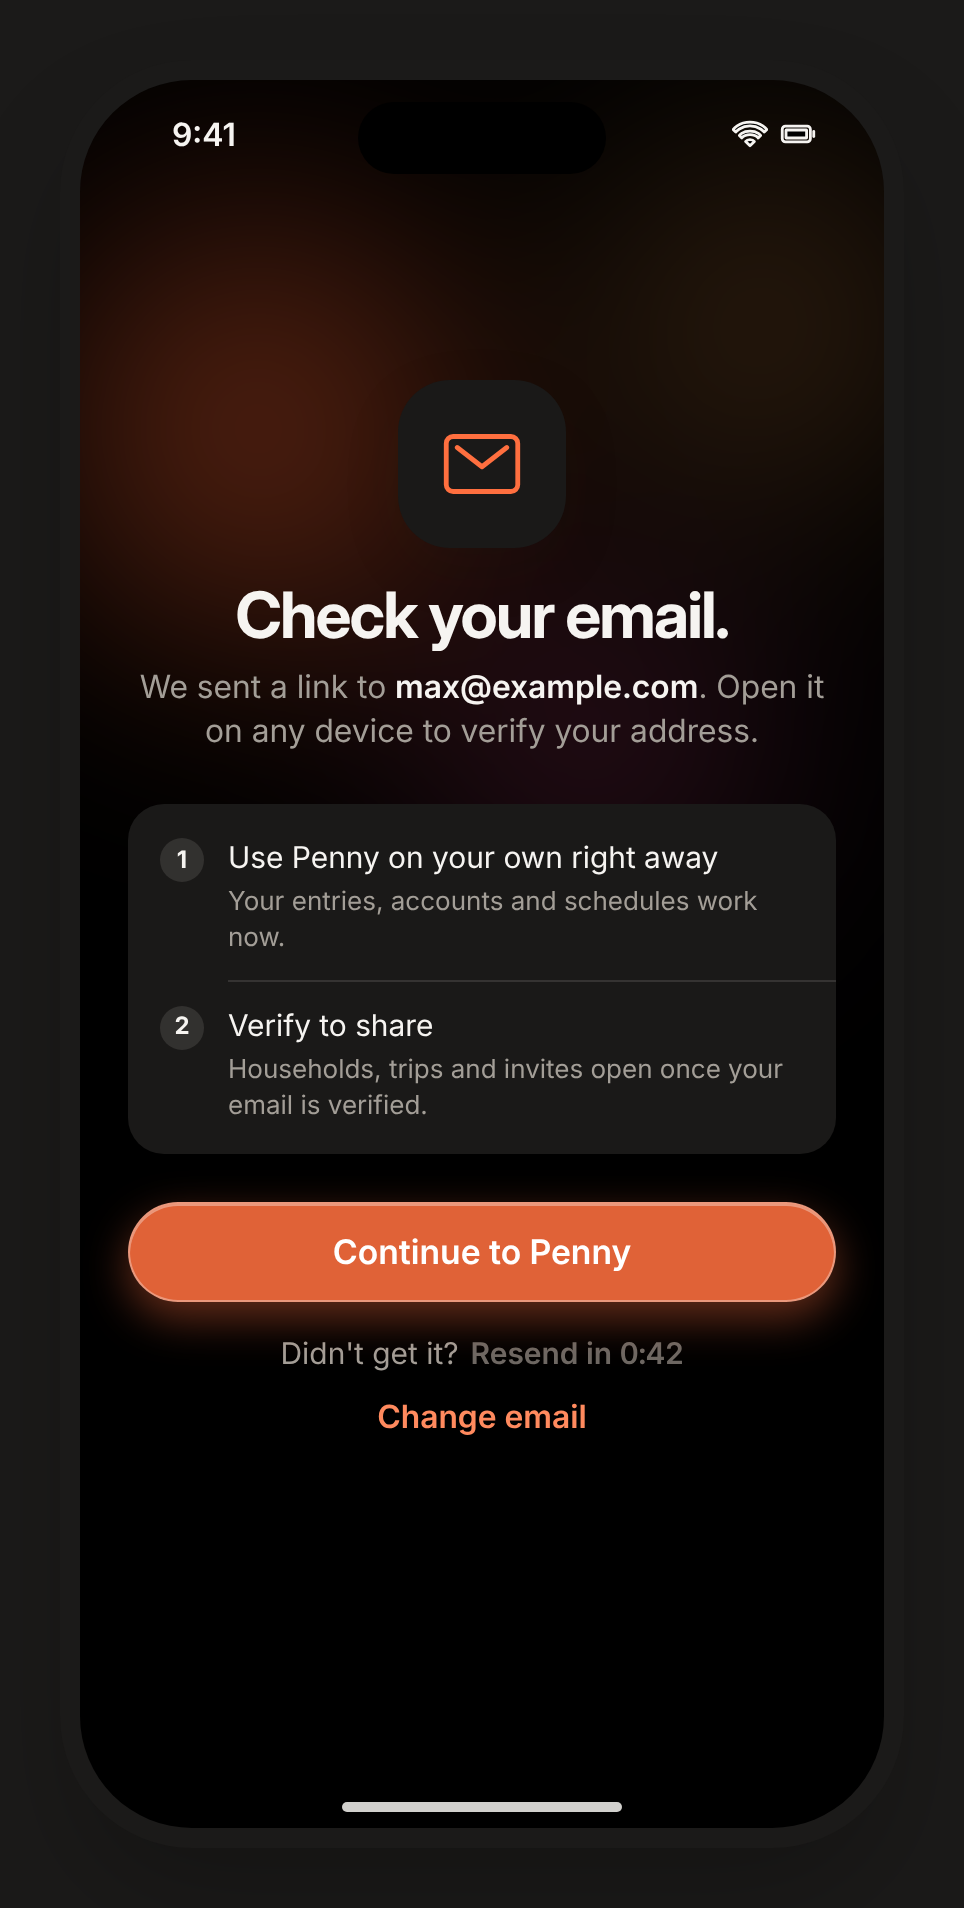
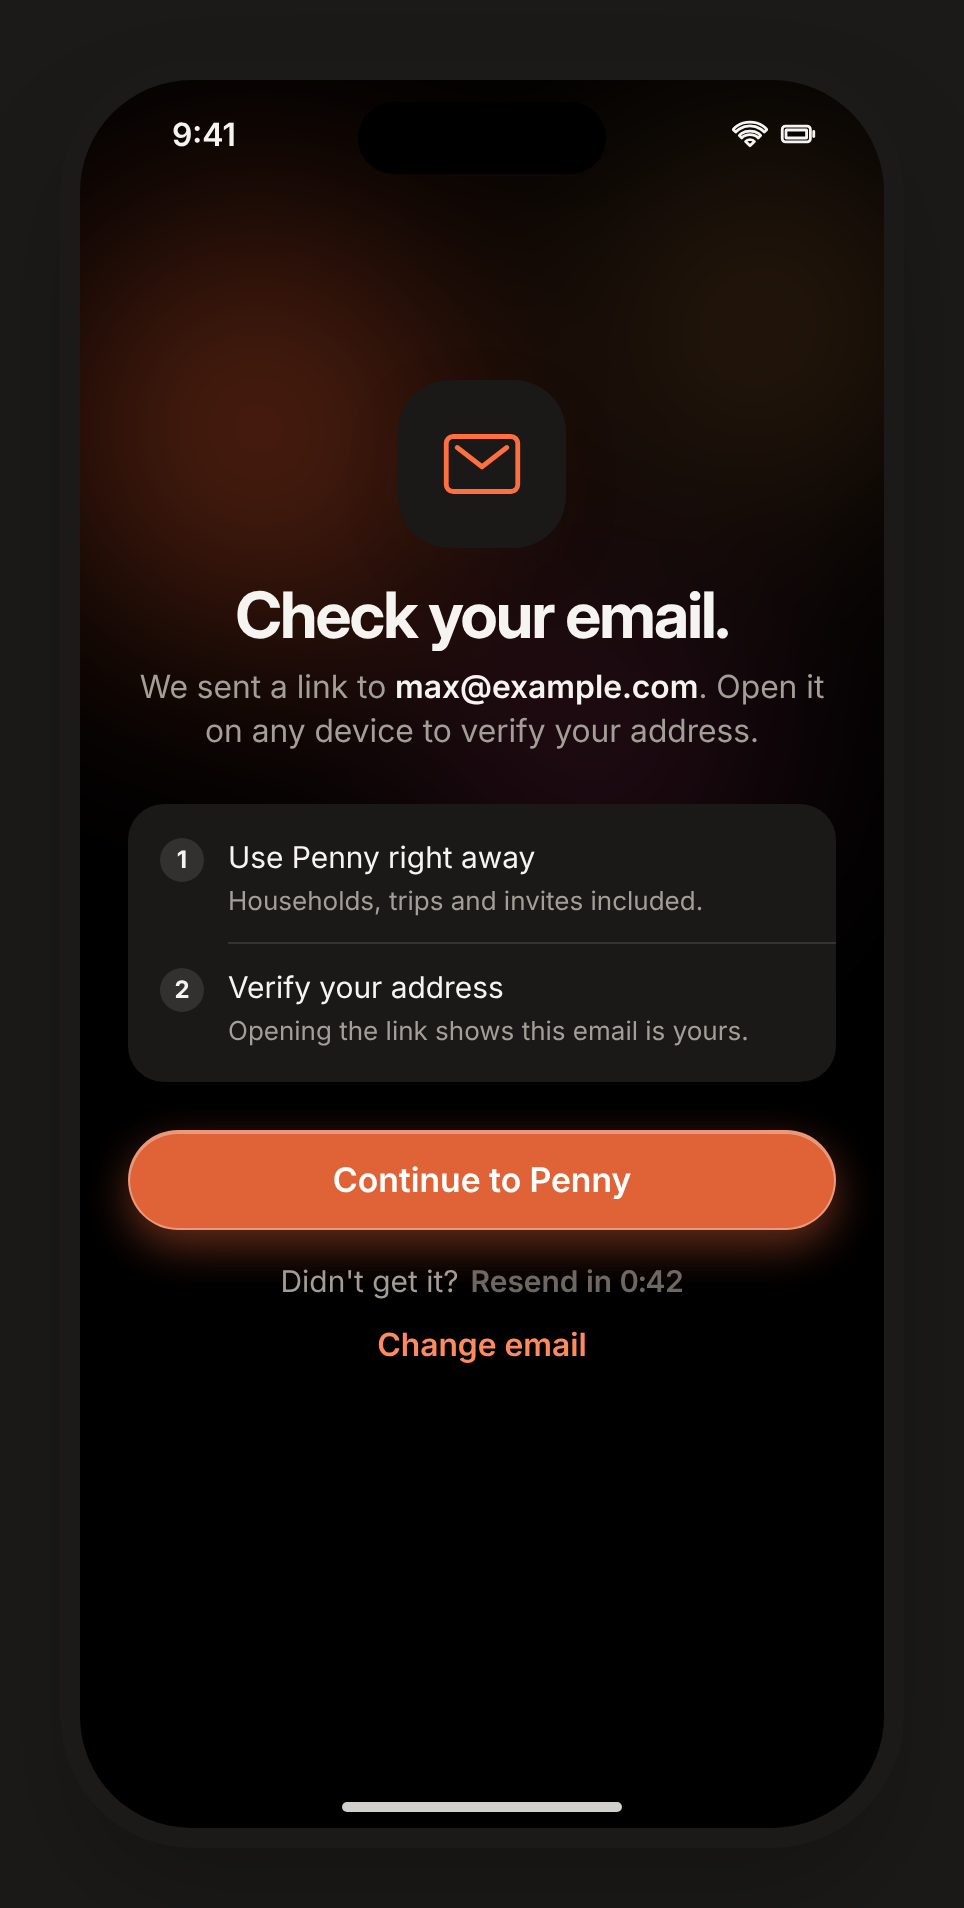
docs(design): verification cards say nothing waits for a verified email
The owner decided no feature is gated on email verification. The four
verification cards now say verification proves the address, with
households, trips and invites available either way. Baselines re-rendered
in the pinned Playwright image, hashes refreshed, the web re-captured and
its two follow-up deviations removed.

Changed region(s): [[0.1245, 0.4329, 0.9025, 0.7731]]

diff --git a/docs/design/penny-ios/iphone/unverified.html b/docs/design/penny-ios/iphone/unverified.html
@@ -1,6 +1,6 @@
-<!-- @dsCard group="iPhone" name="Verify your email to share" viewport="482x954" -->
+<!-- @dsCard group="iPhone" name="Verify your email on Shared" viewport="482x954" -->
 <!doctype html>
-<html><head><meta charset="utf-8"><title>Penny · iPhone · Verify your email to share</title>
+<html><head><meta charset="utf-8"><title>Penny · iPhone · Verify your email on Shared</title>
 <link rel="stylesheet" href="../assets/penny.css"><script src="../assets/icons.js"></script>
 <style>
   .head { padding: 112px 20px 0; }
@@ -21,28 +21,27 @@
   .empty b { display: block; font-size: 20px; font-weight: 700; letter-spacing: -0.02em; margin-top: 14px; }
   .empty p { font-size: 15px; color: var(--label-2); line-height: 1.4; margin-top: 6px; }
   .acts { display: flex; gap: 10px; justify-content: center; margin-top: 20px; }
-  .acts div { height: 44px; padding: 0 18px; border-radius: 22px; background: var(--fill); display: inline-flex; align-items: center; gap: 6px; font-size: 16px; font-weight: 600; color: var(--label-3); }
+  .acts div { height: 44px; padding: 0 18px; border-radius: 22px; background: var(--fill); display: inline-flex; align-items: center; gap: 6px; font-size: 16px; font-weight: 600; color: var(--tint); }
   .acts [data-i] { width: 18px; height: 18px; }
-  .gbtn.off { opacity: .45; }
 </style></head>
 <body class="canvas">
 <div class="iphone">
   <div class="island"></div>
   <div class="status"><span>9:41</span><span class="r"><i data-i="wifi"></i><i data-i="battery-full"></i></span></div>
   <div class="scroll">
-    <div class="navbar"><div></div><div style="display:flex;gap:8px"><div class="glass gbtn off"><i data-i="add"></i></div></div></div>
+    <div class="navbar"><div></div><div style="display:flex;gap:8px"><div class="glass gbtn"><i data-i="add"></i></div></div></div>
     <div class="head"><div class="largetitle">Shared</div><p>Split costs with a household or a trip.</p></div>
     <div class="ask">
       <div class="top">
         <div class="ai"><svg class="mail" viewBox="0 0 512 512" aria-hidden="true"><rect x="48" y="96" width="416" height="320" rx="40" ry="40" style="fill:none;stroke:currentColor;stroke-linecap:round;stroke-linejoin:round;stroke-width:var(--sw,32px)"/><polyline points="112 160 256 272 400 160" style="fill:none;stroke:currentColor;stroke-linecap:round;stroke-linejoin:round;stroke-width:var(--sw,32px)"/></svg></div>
-        <div><b>Verify your email to share</b><p>Open the link we sent to <em>max@example.com</em>. Until then you can't create, join or be invited to households and trips.</p></div>
+        <div><b>Verify your email</b><p>Open the link we sent to <em>max@example.com</em> to show this address is yours. Sharing works either way.</p></div>
       </div>
       <div class="btns"><div class="b tint">Resend link</div><div class="b">Change email</div></div>
     </div>
     <div class="empty">
       <div class="ei"><i data-i="people"></i></div>
       <b>No households or trips yet</b>
-      <p>Once you're verified, create a household or join one with a code from a member.</p>
+      <p>Create a household or join one with a code from a member.</p>
       <div class="acts"><div><i data-i="add"></i>New household</div><div><i data-i="key"></i>Join</div></div>
     </div>
   </div>

diff --git a/apps/web/e2e/cards.real.spec.ts b/apps/web/e2e/cards.real.spec.ts
@@ -992,7 +992,7 @@ const cards: Record<string, Card> = {
   "iphone-sign-in-providers": { skip: { status: "not-built", note: "The web has no Apple or Google sign-in, Forgot password or privacy policy link." } },
   "iphone-create-account-providers": { skip: { status: "not-built", note: "The web has no Apple or Google sign-up or privacy policy line (it has the Name field)." } },
   "iphone-verify-email": { skip: { status: "not-built", note: "The native app's screen. On a phone the web shows web-verify-email's page." } },
-  "iphone-unverified": { skip: { status: "not-built", note: "Sharing is never held back for an unverified email (owner decision, MAZ-172), so this state doesn't exist." } },
+  "iphone-unverified": { skip: { status: "not-built", note: "The native app's Shared tab reminder (MAZ-172 phase 2). The web shows the unverified state and Resend link in Settings › Profile." } },
   "iphone-forgot-password": { skip: { status: "not-built", note: "The web has no password reset by email (the server sends no email)." } },
   "iphone-invite-email": { skip: { status: "not-built", note: "The web has no invites by email (the server sends no email)." } },
   "iphone-delete-account": { skip: { status: "not-built", note: "The web has no account deletion." } },

diff --git a/docs/design/penny-ios/web/verify-email.html b/docs/design/penny-ios/web/verify-email.html
@@ -66,7 +66,7 @@
           <div class="mi"><svg class="mail" viewBox="0 0 512 512" aria-hidden="true"><rect x="48" y="96" width="416" height="320" rx="40" ry="40" style="fill:none;stroke:currentColor;stroke-linecap:round;stroke-linejoin:round;stroke-width:var(--sw,32px)"/><polyline points="112 160 256 272 400 160" style="fill:none;stroke:currentColor;stroke-linecap:round;stroke-linejoin:round;stroke-width:var(--sw,32px)"/></svg></div>
           <h2>Check your email</h2>
           <div class="sub">We sent a link to <b>max@example.com</b>. Open it to verify your address.</div>
-          <div class="note"><i data-i="people"></i><span>You can use your own ledger right away. Households, trips and invites open once your email is verified.</span></div>
+          <div class="note"><i data-i="people"></i><span>You can use Penny right away, households, trips and invites included. Verifying shows this address is yours.</span></div>
           <div class="btn primary big">Continue to Penny</div>
           <div class="alt">Didn&#39;t get it? <span style="color:var(--label-3);font-weight:600">Resend in <span class="num">0:42</span></span> · <b>Change email</b></div>
         </div>

diff --git a/docs/design/penny-ios/iphone/verify-email.html b/docs/design/penny-ios/iphone/verify-email.html
@@ -62,8 +62,8 @@
       <h1>Check your email.</h1>
       <p class="lede">We sent a link to <span class="addr">max@example.com</span>. Open it on any device to verify your address.</p>
       <div class="steps">
-        <div class="st"><span class="n">1</span><div>Use Penny on your own right away<small>Your entries, accounts and schedules work now.</small></div></div>
-        <div class="st"><span class="n">2</span><div>Verify to share<small>Households, trips and invites open once your email is verified.</small></div></div>
+        <div class="st"><span class="n">1</span><div>Use Penny right away<small>Households, trips and invites included.</small></div></div>
+        <div class="st"><span class="n">2</span><div>Verify your address<small>Opening the link shows this email is yours.</small></div></div>
       </div>
       <div class="glass gcap tinted cta" style="margin-top:24px">Continue to Penny</div>
       <div class="resend">Didn't get it? <b>Resend in <span class="num">0:42</span></b></div>

diff --git a/docs/design/penny-ios/web/email-verified.html b/docs/design/penny-ios/web/email-verified.html
@@ -64,7 +64,7 @@
         <div class="form">
           <div class="mi" style="background:var(--fill);color:var(--label)"><i data-i="checkmark-circle"></i></div>
           <h2>Your email is verified</h2>
-          <div class="sub"><b>max@example.com</b> is confirmed. You can now create and join households and trips, and people can invite you by email.</div>
+          <div class="sub"><b>max@example.com</b> is confirmed as yours.</div>
           <div class="btn primary big">Open Penny</div>
           <div class="alt" style="font-size:13px">Opened this on another device? Penny updates there the next time it syncs.</div>
         </div>

diff --git a/docs/design/penny-ios/README.md b/docs/design/penny-ios/README.md
@@ -17,7 +17,7 @@ Each screen is a standalone HTML file with a `@dsCard` marker, so the folder can
 | Web (desktop browser) | [home](web/home.html), [activity](web/activity.html), [insights](web/insights.html), [household](web/household.html), [trips](web/trips.html), [settings](web/settings.html), [add-entry](web/add-entry.html), [sign-in](web/sign-in.html) |
 | Emailed receipts (MAZ-184) | iPhone: [inbox](iphone/receipt-inbox.html), [inbox-item](iphone/receipt-inbox-item.html), [attach-file](iphone/receipt-attach-file.html), [attach-entry](iphone/receipt-attach-entry.html), [attach-confirm](iphone/receipt-attach-confirm.html), [attached-toast](iphone/receipt-attached-toast.html), [email-settings](iphone/receipt-email-settings.html)<br>iPad: [inbox](ipad/receipt-inbox.html), [inbox-item](ipad/receipt-inbox-item.html), [attach-file](ipad/receipt-attach-file.html), [attach-entry](ipad/receipt-attach-entry.html), [attach-confirm](ipad/receipt-attach-confirm.html), [attached-toast](ipad/receipt-attached-toast.html), [email-settings](ipad/receipt-email-settings.html)<br>Web: [inbox](web/receipt-inbox.html), [inbox-item](web/receipt-inbox-item.html), [attach-file](web/receipt-attach-file.html), [attach-entry](web/receipt-attach-entry.html), [attach-confirm](web/receipt-attach-confirm.html), [attached-toast](web/receipt-attached-toast.html), [email-settings](web/receipt-email-settings.html) |
 | Screens drafted for review (MAZ-238) | iPhone: [activity filters](iphone/activity-filters.html), [searching](iphone/activity-searching.html), [Expected income and Explore your month](iphone/home-explore.html), [account picker](iphone/account-picker.html), [household picker](iphone/household-picker.html), [edit entry](iphone/edit-entry.html), [shared expense](iphone/shared-expense-detail.html), [join with a code](iphone/join-code.html), [scan invite](iphone/invite-scanner.html), [invite](iphone/invite.html), [notifications prompt](iphone/notifications-prompt.html), [personal trip](iphone/trip-personal.html), [share a trip](iphone/trip-share.html), [new schedule](iphone/schedule-form.html), [currency](iphone/currency.html), [couldn't sync](iphone/sync-failed.html), [shared expenses may be missing](iphone/shared-missing.html), [demo](iphone/demo.html)<br>iPad: [home in portrait](ipad/home-portrait.html)<br>Web: [all households](web/households.html), [shared expense](web/shared-expense.html), [trip](web/trip.html), [recurring](web/recurring.html), [accounts](web/accounts.html), [categories](web/categories.html), [currency](web/currency.html), [new schedule](web/schedule-form.html), [edit entry](web/edit-entry.html), [join with a code](web/join-code.html), [searching](web/activity-searching.html), [can't reach your server](web/server-unreachable.html), [demo](web/demo.html), [768 to 1099px](web/tablet.html), [set a new password](web/password-reset.html), [export data](web/export.html) |
-| Account and profile drafted for review (MAZ-267) | iPhone: [profile](iphone/profile.html), [profile from Google](iphone/profile-provider.html), [picture crop](iphone/profile-photo.html), [add your name](iphone/name-prompt.html), [sign in with Apple or Google](iphone/sign-in-providers.html), [create account with Apple or Google](iphone/create-account-providers.html), [check your email](iphone/verify-email.html), [verify to share](iphone/unverified.html), [reset your password](iphone/forgot-password.html), [invite by email](iphone/invite-email.html), [delete account](iphone/delete-account.html), [export all your data](iphone/export-all.html), [share crash reports](iphone/monitoring-prompt.html), [privacy](iphone/privacy.html)<br>iPad: [profile](ipad/profile.html)<br>Web: [profile](web/profile.html), [sign in with Apple or Google](web/sign-in-providers.html), [create account](web/create-account.html), [check your email](web/verify-email.html), [email verified](web/email-verified.html), [reset your password](web/forgot-password.html), [invite by email](web/invite-email.html), [delete account](web/delete-account.html), [export all your data](web/export-all.html), [privacy](web/privacy.html), [share error reports](web/monitoring-prompt.html) |
+| Account and profile drafted for review (MAZ-267) | iPhone: [profile](iphone/profile.html), [profile from Google](iphone/profile-provider.html), [picture crop](iphone/profile-photo.html), [add your name](iphone/name-prompt.html), [sign in with Apple or Google](iphone/sign-in-providers.html), [create account with Apple or Google](iphone/create-account-providers.html), [check your email](iphone/verify-email.html), [verify your email on Shared](iphone/unverified.html), [reset your password](iphone/forgot-password.html), [invite by email](iphone/invite-email.html), [delete account](iphone/delete-account.html), [export all your data](iphone/export-all.html), [share crash reports](iphone/monitoring-prompt.html), [privacy](iphone/privacy.html)<br>iPad: [profile](ipad/profile.html)<br>Web: [profile](web/profile.html), [sign in with Apple or Google](web/sign-in-providers.html), [create account](web/create-account.html), [check your email](web/verify-email.html), [email verified](web/email-verified.html), [reset your password](web/forgot-password.html), [invite by email](web/invite-email.html), [delete account](web/delete-account.html), [export all your data](web/export-all.html), [privacy](web/privacy.html), [share error reports](web/monitoring-prompt.html) |
 | Email delivery drafted for review (MAZ-124) | Web: [request a password reset](web/forgot-password-request.html), [set a new password from the link](web/password-reset-link.html); the email-sent step is [reset your password](web/forgot-password.html) |
 
 147 cards in total. Sheets that open over another screen (calendar, add income, split, category picker and others) embed that screen in an iframe, so they stay in sync with it.

diff --git a/.design-sync/NOTES.md b/.design-sync/NOTES.md
@@ -39,6 +39,7 @@
 - **Shared trips in More details (MAZ-255, owner decision):** `iphone/entry-extras.html` lists a shared trip ("Tokyo spring", "Shared · 3 people") below the personal trips, as the apps do: picking one moves the expense to that trip's shared form. No kit change. Push the card at the next re-sync.
 - **Privacy Policy on the sign-in cards (MAZ-169, owner decision):** `web/sign-in.html` adds " · Privacy Policy" after the sample-data note; `iphone/sign-in.html` adds a `.legal` "Privacy Policy" line at the bottom and moves the sample-data link up (bottom 74px), as `iphone/sign-in-providers.html`; `iphone/create-account.html` adds the `.terms` line "By creating an account you agree to the Privacy Policy." under Create account, as `iphone/create-account-providers.html`. No kit change. Push the three cards at the next re-sync.
 - **Payment changed and the Shared list prompt (MAZ-256, owner decisions):** `iphone/payment-stale.html` shows what the apps show: the real cause ("You already recorded Mira's share as paid after you opened this payment, maybe on another device…") and only what changed (Mira's share status, Recorded by you), instead of an edit's total and share. `iphone/shared-list.html` adds the "Hear about household changes" prompt above the households, in `iphone/notifications-prompt.html`'s styles. The kit's `contracts/design-baseline.json` gains a `monogram` token (the `.avatar` gradient, #A8A29E to #78716C, with white initials), which `penny.css` and `design-kit/src/styles.css` already draw. No kit change. Push the two cards at the next re-sync.
+- **Nothing waits for verification (MAZ-172, owner decision):** `web/verify-email.html`'s note reads "You can use Penny right away, households, trips and invites included. Verifying shows this address is yours."; `web/email-verified.html` reads "max@example.com is confirmed as yours."; `iphone/verify-email.html`'s steps read "Use Penny right away" (households, trips and invites included) and "Verify your address"; `iphone/unverified.html` is renamed "Verify your email on Shared" and its reminder no longer holds sharing back (New household, Join and the toolbar + are available). No kit change. Push the four cards at the next re-sync.
 
 ## Re-sync risks
 - **Do the whole re-sync in one change:** after a card or kit change, re-render the baselines (`node docs/design/penny-ios/render.mjs 2`), update the hashes in `contracts/design-baseline.json` (`npm run design:hashes` in `apps/web`), re-sync this project, and update the affected verdicts in `contracts/visual-comparisons.json`. The steps are in [visual acceptance](../docs/design/visual-acceptance.md#re-sync-after-a-design-change); `npm run test:core` and the web workflow fail on a stale baseline or hash.

diff --git a/docs/design/visual-acceptance.md b/docs/design/visual-acceptance.md
@@ -244,7 +244,7 @@ Rules the drafts follow:
 - **Provider buttons** follow Apple's and Google's button rules: Sign in with Apple is black (white in dark), Google is white with its outline (dark gray in dark), and both come before the server's SSO and email. The logos are drawn in the cards; they are the providers' marks, not kit icons.
 - **The privacy policy** is linked from sign-in, create account ("By creating an account you agree to the Privacy Policy."), Profile, Delete account, Privacy and both monitoring prompts. It opens in the browser.
 - **Without email on the server**, the existing cards apply: sign-in has no Forgot password (`iphone-sign-in`), invites use a code (`iphone-invite`), the operator's reset code uses `web-password-reset`, and nothing asks to verify.
-- **Unverified accounts** keep their personal ledger and can't create, join or be invited to households and trips (MAZ-172's recommendation), which `iphone-unverified` draws on the Shared tab.
+- **Unverified accounts** can do everything a verified one can, inviting and being invited included (owner decision on MAZ-172, 2026-11-23). Verification only shows the address is the person's. `iphone-unverified` draws a reminder with Resend link and Change email on the Shared tab, with New household and Join available.
 - **Reset and verification messages** never say whether an email is registered ("If max@example.com has a Penny account…").
 - **Monitoring** is off until the person chooses, and the prompt says what is never sent. Session replay is a web-only switch (`web-privacy`), since iOS replay stays in Embrace (MAZ-129).
 
